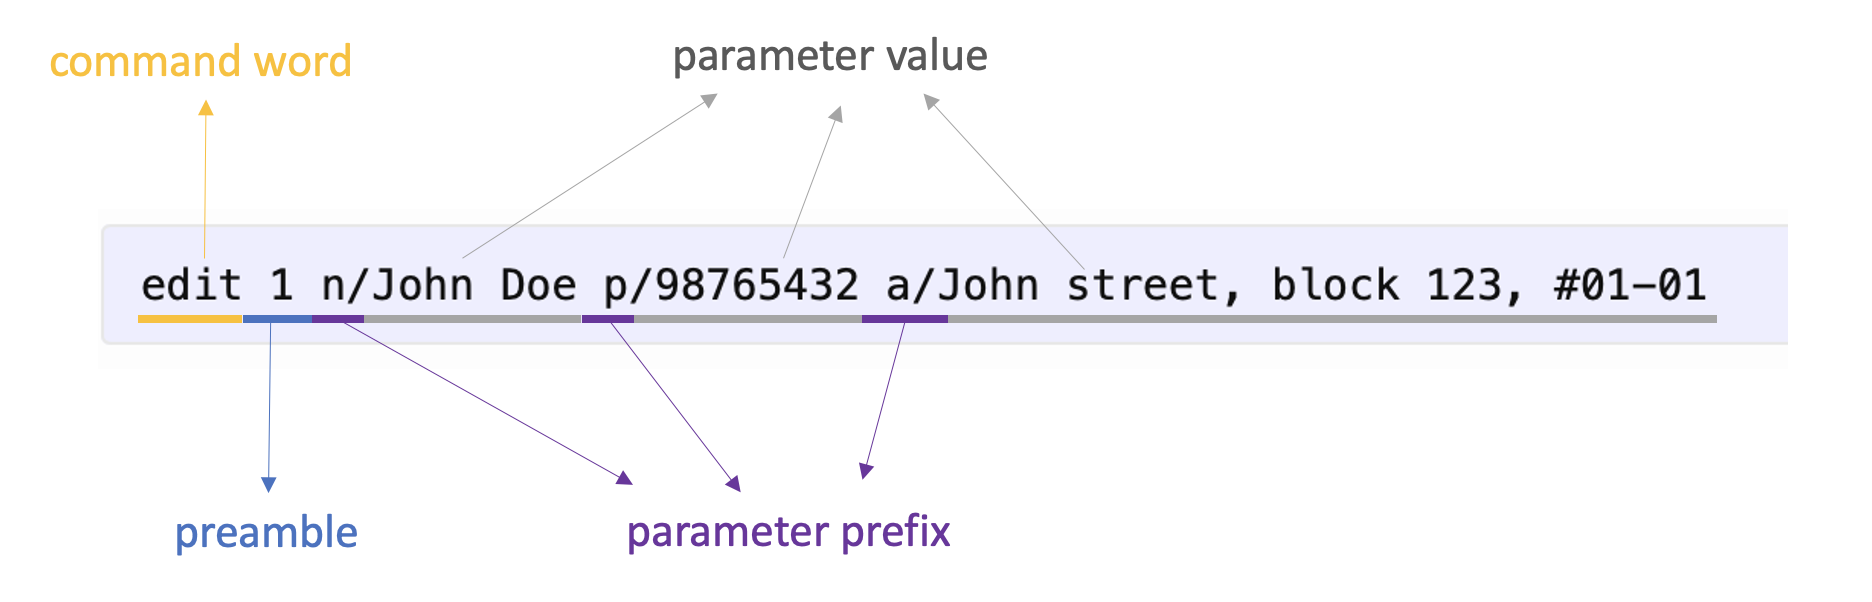
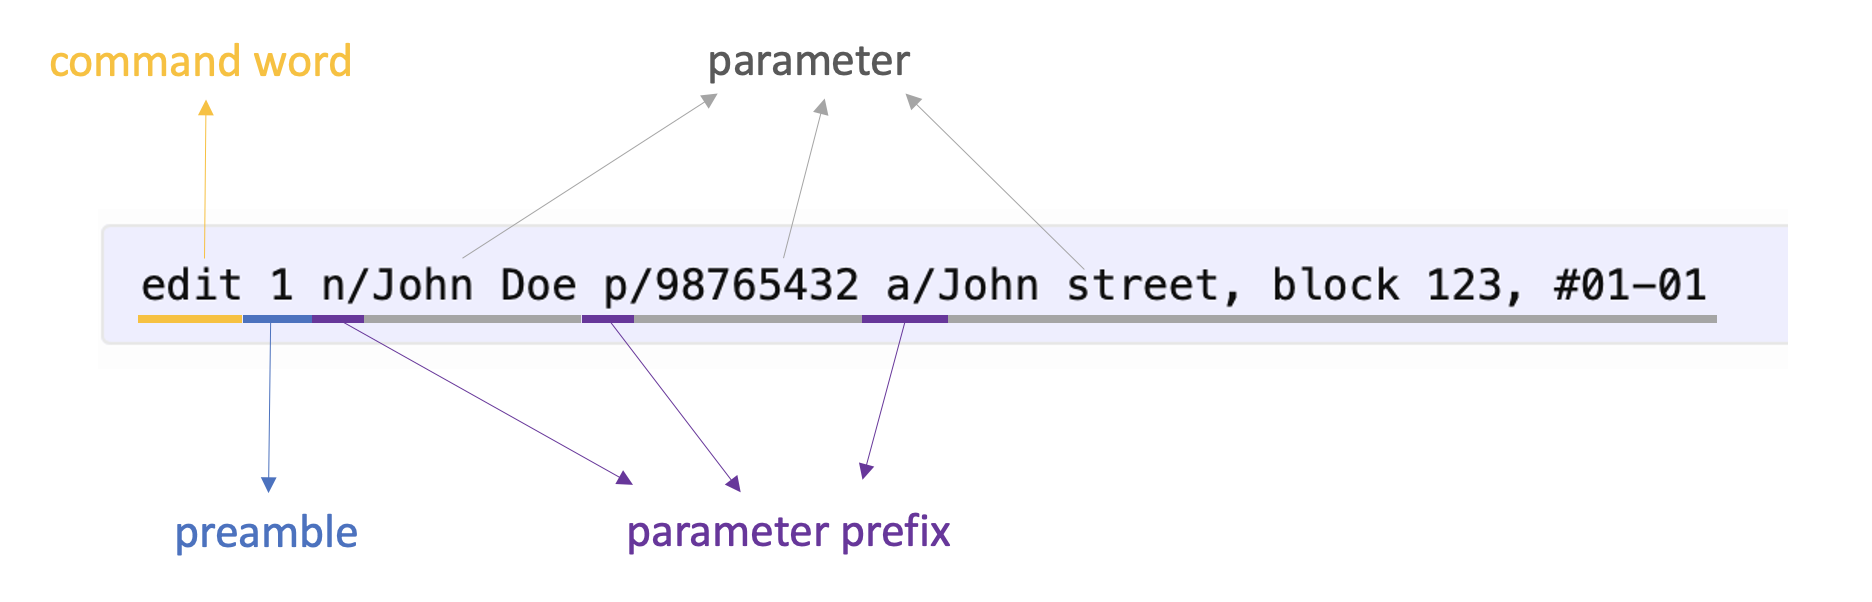
Minor edits

Changed region(s): [[0.3408, 0.0598, 0.5267, 0.1495], [0.4647, 0.1495, 0.4957, 0.1794], [0.4338, 0.1794, 0.4647, 0.2093]]

diff --git a/docs/UserGuide.md b/docs/UserGuide.md
@@ -41,7 +41,7 @@ _text_ | Caption for images.
 ### Command Format
 Commands are text that you can enter into TAB's command box to tell TAB which operation you would like to perform. Commands in TAB have several components and follow a general format as follows:<br/>
 
-```COMMAND_WORD PREAMBLE PARAMETER_PREFIX/PARAMETER_VALUE…```
+```COMMAND_WORD PREAMBLE PARAMETER_PREFIX/PARAMETER…```
 
 Detailed notes about the command format can be found [here](#features).
 
@@ -49,9 +49,8 @@ Detailed notes about the command format can be found [here](#features).
 |---------|-----------|
 |Command word|The word that specifies the action to execute.|
 |Preamble| The text before the first valid parameter prefix in the command. The preamble may or may not be empty depending on the command.|
-|Parameter| An input provided by the user for the execution of the command.<br/> A parameter in TAB is defined fully by its prefix and value. |
 |Parameter prefix| The keyword that differentiates parameters from one another. All prefixes end with a `/`.|
-|Parameter value| The value of the parameter|
+|Parameter| An input provided by the user for the execution of the command.|
 
 * Each parameter prefix is separated from the others with a space.<br/>
   Using the parameter prefix for tag, `t/`, as an example,
